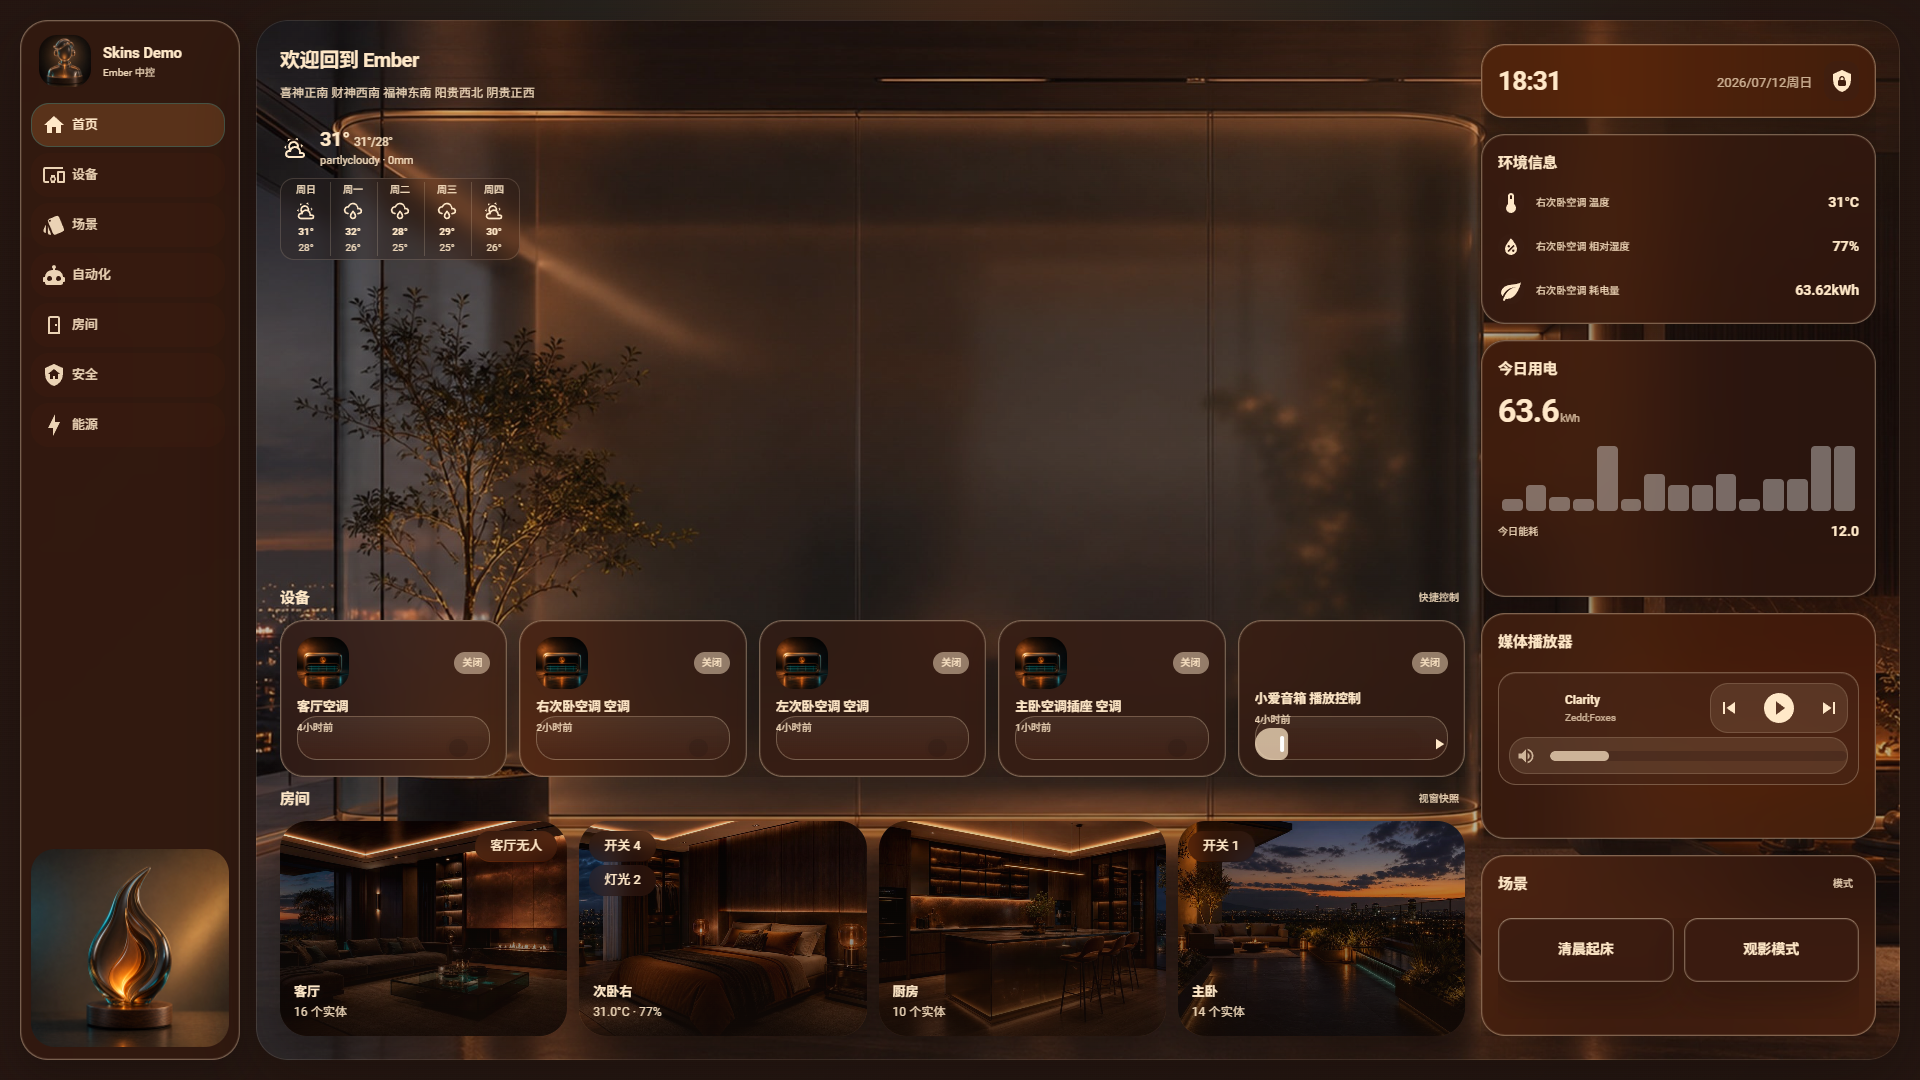
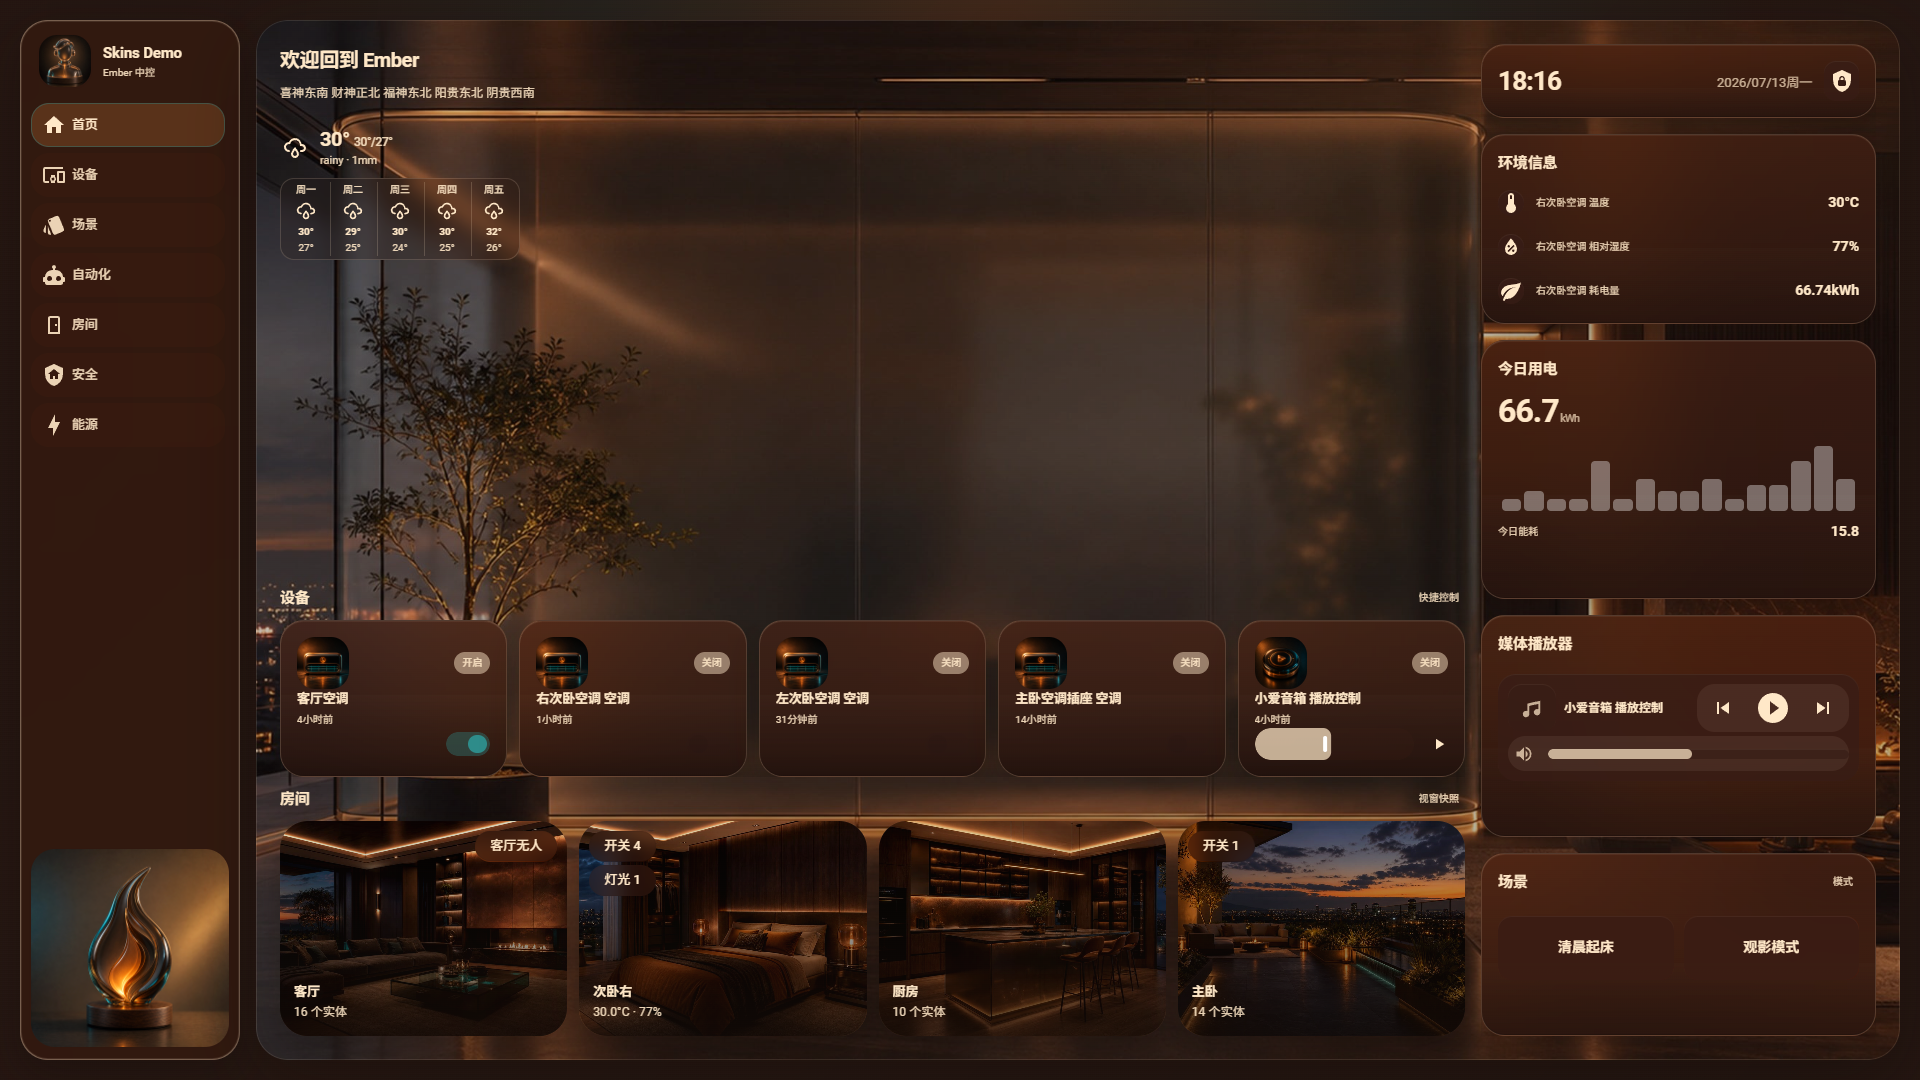
fix(skins): polish ember glass device cards

diff --git a/skins-pro/ember-glass/theme.css b/skins-pro/ember-glass/theme.css
@@ -2825,3 +2825,328 @@ ha-icon {
 .room::after {
   background: linear-gradient(180deg, rgba(20,12,8,0.05) 8%, rgba(20,12,8,0.34) 52%, rgba(20,12,8,0.74) 100%);
 }
+
+/* Ember frame polish: keep the Skins-Pro base contract, but make device and
+   right-column controls part of one clipped glass surface. This removes the
+   independent rounded footer frame and translucent corner artifacts visible
+   in the PR preview. */
+:host {
+  --ember-frame-fill: rgba(61,31,21,0.70);
+  --ember-frame-fill-deep: rgba(43,23,17,0.82);
+  --ember-frame-edge: rgba(255,232,200,0.16);
+  --ember-frame-bottom: rgba(24,13,10,0.52);
+  --ember-control-fill: rgba(55,29,21,0.74);
+  --ember-control-soft: rgba(255,232,200,0.07);
+}
+
+.device {
+  position: relative;
+  overflow: hidden !important;
+  isolation: isolate;
+  background:
+    linear-gradient(180deg, rgba(72,37,25,0.66), var(--ember-frame-fill-deep)) !important;
+  background-clip: padding-box;
+  border: var(--sp-border-w) solid var(--ember-frame-edge) !important;
+  box-shadow:
+    0 14px 34px rgba(20,12,8,0.30),
+    inset 0 1px 0 rgba(255,232,200,0.07),
+    inset 0 -1px 0 var(--ember-frame-bottom) !important;
+}
+
+.device:hover {
+  background:
+    linear-gradient(180deg, rgba(80,42,28,0.70), rgba(48,25,18,0.84)) !important;
+  border-color: rgba(255,232,200,0.20) !important;
+  box-shadow:
+    0 16px 38px rgba(20,12,8,0.34),
+    inset 0 1px 0 rgba(255,232,200,0.08),
+    inset 0 -1px 0 var(--ember-frame-bottom) !important;
+}
+
+.device::after {
+  content: "";
+  position: absolute;
+  inset: auto 0 0 0;
+  height: 52%;
+  border: 0 !important;
+  border-radius: 0;
+  background: linear-gradient(180deg, rgba(255,232,200,0.015), rgba(38,20,15,0.42) 70%, rgba(28,15,11,0.62));
+  box-shadow: none !important;
+  pointer-events: none;
+  z-index: 0;
+}
+
+.device > * {
+  position: relative;
+  z-index: 1;
+}
+
+.device .control-row {
+  min-height: 32px;
+  background: transparent !important;
+  border: 0 !important;
+  box-shadow: none !important;
+}
+
+.device ha-control-switch,
+.device ha-control-slider,
+.device .media-toggle-icon {
+  position: relative;
+  z-index: 2;
+  background: transparent !important;
+  border: 0 !important;
+  box-shadow: none !important;
+}
+
+.device ha-control-switch,
+.device ha-control-slider {
+  overflow: hidden;
+  border-radius: var(--sp-radius-pill);
+  background-clip: padding-box;
+}
+
+.device .media-vol-slider {
+  min-width: 0;
+  flex: 1 1 auto;
+}
+
+.device .media-toggle-icon {
+  flex: 0 0 auto;
+  margin-inline-start: var(--sp-space-xs);
+}
+
+.side {
+  background: transparent !important;
+  border: 0 !important;
+  box-shadow: none !important;
+}
+
+.side .glass-card,
+.side .time-card,
+.side .panel-energy,
+.side .panel-media,
+.side .panel-scenes,
+.side .info-card,
+.side .metric-card,
+.side .energy-panel,
+.side .scenes-panel {
+  position: relative;
+  overflow: hidden !important;
+  isolation: isolate;
+  background:
+    linear-gradient(180deg, rgba(68,35,24,0.66), var(--ember-frame-fill-deep)) !important;
+  background-clip: padding-box;
+  border: var(--sp-border-w) solid var(--ember-frame-edge) !important;
+  box-shadow:
+    0 12px 30px rgba(20,12,8,0.28),
+    inset 0 1px 0 rgba(255,232,200,0.065),
+    inset 0 -1px 0 var(--ember-frame-bottom) !important;
+}
+
+.side .glass-card::after,
+.side .time-card::after,
+.side .panel-energy::after,
+.side .panel-media::after,
+.side .panel-scenes::after,
+.side .info-card::after {
+  content: "";
+  position: absolute;
+  inset: auto 0 0 0;
+  height: 40%;
+  border: 0;
+  border-radius: 0;
+  background: linear-gradient(180deg, rgba(255,232,200,0.012), rgba(31,17,13,0.38));
+  box-shadow: none;
+  pointer-events: none;
+  z-index: 0;
+}
+
+.side .glass-card > *,
+.side .time-card > *,
+.side .panel-energy > *,
+.side .panel-media > *,
+.side .panel-scenes > *,
+.side .info-card > * {
+  position: relative;
+  z-index: 1;
+}
+
+.side .time-icon,
+.side .dot,
+.side .media-cover-null,
+.side .media-content,
+.side .media-actions,
+.side .media-volume,
+.side .media-voltrack,
+.side .scene {
+  overflow: hidden !important;
+  background: var(--ember-control-fill) !important;
+  background-clip: padding-box;
+  border: 0 !important;
+  box-shadow: inset 0 1px 0 rgba(255,232,200,0.055) !important;
+}
+
+.side .media-content {
+  padding: var(--sp-space-sm);
+  border-radius: var(--sp-radius-md);
+}
+
+.side .media-actions,
+.side .media-volume,
+.side .media-row.media-volrow {
+  background: var(--ember-control-soft) !important;
+  border: 0 !important;
+  border-radius: var(--sp-radius-md);
+  box-shadow: none !important;
+}
+
+.side .media-actions {
+  padding-inline: var(--sp-space-xs);
+}
+
+.side .media-volume {
+  min-width: 0;
+  padding: 2px var(--sp-space-xs);
+}
+
+.side .media-voltrack {
+  min-width: 56px;
+}
+
+.side .scene.morning,
+.side .scene.night,
+.side .scene.movie,
+.side .scene.game {
+  border-top: 0 !important;
+}
+
+/* Ember v2 device-card sync: align quick-control cards with the current
+   Skins-Pro card contract: visible control slot, semantic status chips, and
+   consistent switch/slider surfaces for both on and off states. */
+:host {
+  --ember-status-on-bg: rgba(46,140,138,0.32);
+  --ember-status-on-border: rgba(75,214,199,0.36);
+  --ember-status-off-bg: rgba(255,232,200,0.12);
+  --ember-status-off-border: rgba(255,232,200,0.18);
+  --ember-device-control-bg: rgba(255,232,200,0.055);
+  --ember-device-control-border: rgba(255,232,200,0.10);
+  --ember-switch-off-track: rgba(255,232,200,0.26);
+  --ember-switch-on-track: rgba(46,140,138,0.82);
+  --ember-slider-track: rgba(255,232,200,0.20);
+  --ember-slider-fill: rgba(255,232,200,0.86);
+}
+
+.devices {
+  overflow: visible;
+}
+
+.device {
+  grid-template-rows: auto minmax(42px, 1fr) auto;
+  row-gap: var(--sp-space-sm);
+  min-width: 0;
+}
+
+.device-top {
+  align-items: flex-start;
+}
+
+.device-copy {
+  align-self: center;
+  min-width: 0;
+  padding-block: 2px;
+}
+
+.device-name {
+  font-size: var(--sp-font-sm);
+  line-height: 1.22;
+  max-width: 100%;
+}
+
+.device-copy .muted {
+  display: block;
+  margin-top: 3px;
+  color: rgba(255,232,200,0.66);
+  font-size: var(--sp-font-3xs);
+  line-height: 1.15;
+}
+
+.status {
+  min-height: 24px;
+  padding: 0 10px;
+  border: 0.5px solid var(--ember-status-off-border);
+  background: var(--ember-status-off-bg);
+  color: rgba(255,232,200,0.78);
+  box-shadow: inset 0 1px 0 rgba(255,232,200,0.06);
+}
+
+.device-on-yellow .status,
+.device-on-green .status,
+.device-on-blue .status,
+.device-on-purple .status,
+.device-on-red .status,
+.device-on-brown .status {
+  background: var(--ember-status-on-bg);
+  border-color: var(--ember-status-on-border);
+  color: #EFFFFA;
+}
+
+.device .control-row {
+  width: 100%;
+  min-height: 34px;
+  box-sizing: border-box;
+  justify-content: space-between !important;
+  align-self: end;
+  gap: var(--sp-space-sm);
+  padding: 0;
+}
+
+.device .control-row:empty {
+  display: none;
+}
+
+.device .state-word {
+  color: rgba(255,232,200,0.68);
+}
+
+.device ha-control-switch {
+  flex: 0 0 auto;
+  width: 46px !important;
+  --control-switch-on-color: var(--ember-switch-on-track) !important;
+  --control-switch-off-color: var(--ember-switch-off-track) !important;
+  --control-switch-background-opacity: 1 !important;
+  --control-switch-thickness: 24px !important;
+  --control-switch-padding: 3px !important;
+  filter: drop-shadow(0 4px 10px rgba(20,12,8,0.28));
+}
+
+.device ha-control-slider.media-vol-slider {
+  --control-slider-color: var(--ember-slider-fill) !important;
+  --control-slider-background: var(--ember-slider-track) !important;
+  --control-slider-background-opacity: 1 !important;
+  --control-slider-thickness: 28px !important;
+  flex: 1 1 auto;
+  min-width: 72px;
+  max-width: 132px;
+}
+
+ha-icon.media-toggle-icon,
+.device ha-icon.media-toggle-icon {
+  width: 30px !important;
+  height: 30px !important;
+  min-width: 30px !important;
+  min-height: 30px !important;
+  display: inline-grid !important;
+  place-items: center !important;
+  color: rgba(255,232,200,0.94) !important;
+  border-radius: var(--sp-radius-pill) !important;
+  background: var(--ember-device-control-bg) !important;
+  box-shadow: inset 0 1px 0 var(--ember-device-control-border) !important;
+  margin-inline-start: 0;
+  --mdc-icon-size: 18px;
+}
+
+ha-icon.media-toggle-icon ha-svg-icon,
+.device ha-icon.media-toggle-icon ha-svg-icon,
+.device ha-icon.media-toggle-icon svg {
+  background: transparent !important;
+}